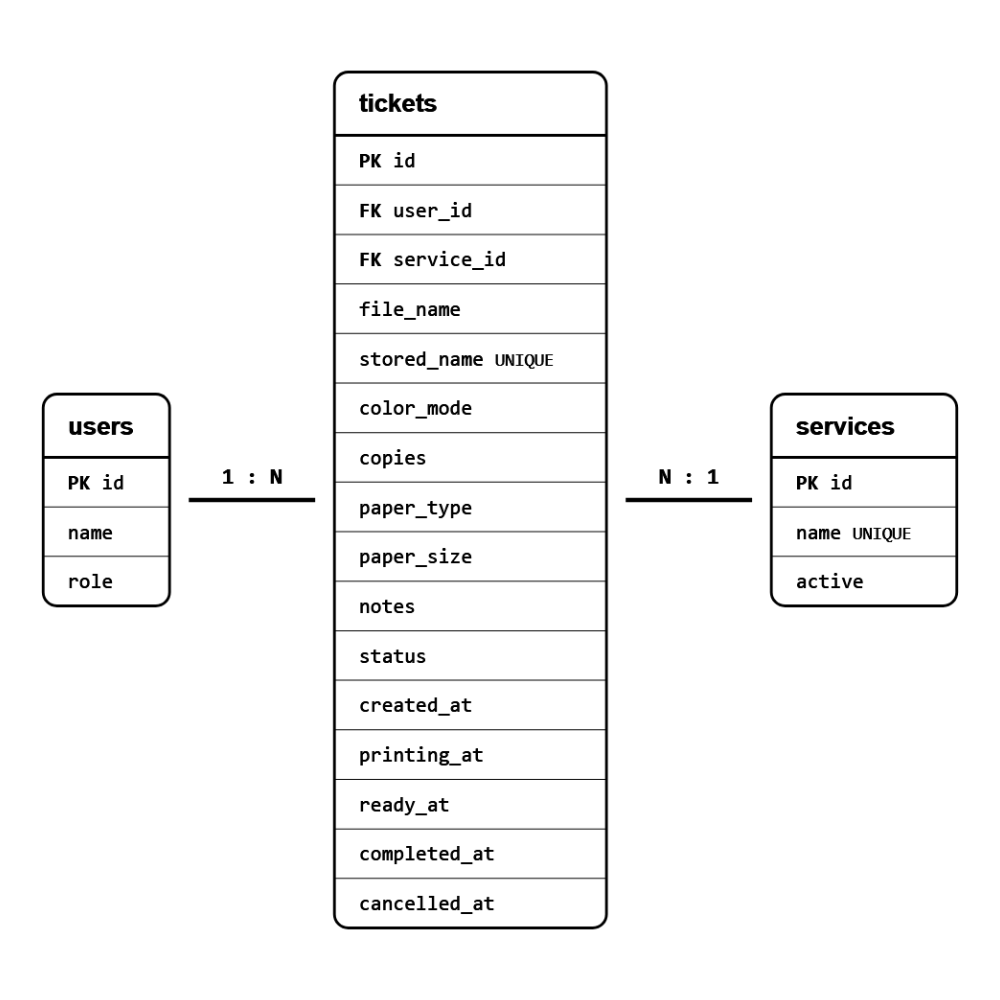
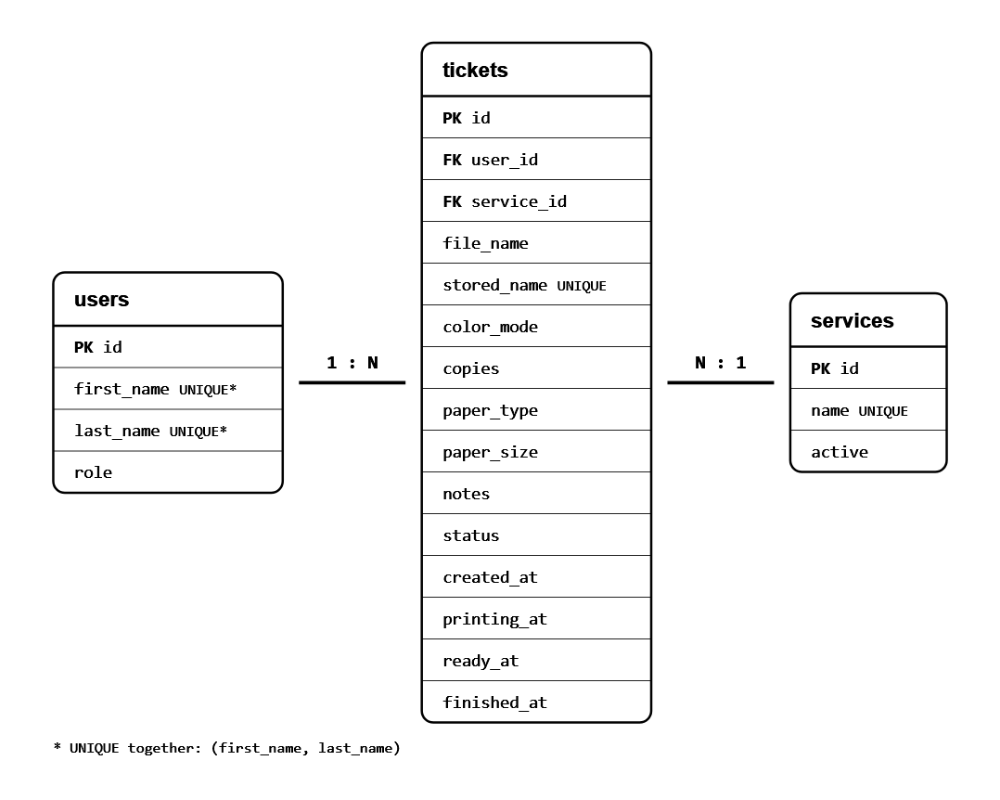
Add schema-review.md and update the schema.md

diff --git a/docs/week4/schema.md b/docs/week4/schema.md
@@ -4,20 +4,20 @@
  
 | ID | Requirement | Nouns | Table or column? |
 | --- | --- | --- | --- |
-| FR-01 | A requester can submit their **name**, one **PDF file** and its **print specifications** (**color mode**, **copies**, **paper type**, **paper size** and **instructions**). | requester, name, PDF file, print specifications, color mode, copies, paper type, paper size, instructions | `users`, `users.name`, `tickets.file_name`, `tickets.stored_name`, `tickets.color_mode`, `tickets.copies`, `tickets.paper_type`, `tickets.paper_size`, `tickets.notes` |
+| FR-01 | A requester can submit their **name**, one **PDF file** and its **print specifications** (**color mode**, **copies**, **paper type**, **paper size** and **instructions**). | requester, name, PDF file, print specifications, color mode, copies, paper type, paper size, instructions | `users`, `users.first_name`, `users.last_name`, `tickets.file_name`, `tickets.stored_name`, `tickets.color_mode`, `tickets.copies`, `tickets.paper_type`, `tickets.paper_size`, `tickets.notes` |
 | FR-02 | A requester can receive a **ticket number** after submitting their print request. | requester, ticket number, print request | `tickets.id` |
 | FR-03 | A requester can see how many **requests** are **ahead** of theirs and the current **status** of their print request. | requester, requests, ahead, status | `tickets.status`, `tickets.created_at`. The number ahead is computed (not stored) from older waiting requests for the same service |
-| FR-05 | A requester can **cancel** their request while it is still **waiting**. | requester, request, cancel, waiting | `tickets.status`, `tickets.cancelled_at` |
+| FR-05 | A requester can **cancel** their request while it is still **waiting**. | requester, request, cancel, waiting | `tickets.status`, `tickets.finished_at` |
 | FR-06 | A staff member can see all **waiting requests** in **queue order**, with each request's **print specifications**. | staff member, waiting requests, queue order, print specifications | (no staff login yet), `tickets.status`, `tickets.created_at`, and the print-specification columns in `tickets` |
 | FR-07 | A staff member can **print** the next request in the queue. | staff member, request, queue | `tickets.status`, `tickets.printing_at` |
 | FR-09 | A staff member can mark the request that is printing as **ready**. | staff member, request, ready | `tickets.status`, `tickets.ready_at` |
-| FR-10 | A staff member can mark a **ready** request as **done** when it is picked up. | staff member, request, ready, done, pickup | `tickets.status`, `tickets.completed_at` |
+| FR-10 | A staff member can mark a **ready** request as **done** when it is picked up. | staff member, request, ready, done, pickup | `tickets.status`, `tickets.finished_at` |
 | FR-11 ★ | A staff member can open a request's **PDF** to check it before printing. | staff member, request, PDF | `tickets.stored_name`, `tickets.file_name` |
 | FR-12 ★ | A requester's **PDF** is deleted from the server when their request is **done** or **cancelled**. | requester, PDF, request, done, cancelled | `tickets.stored_name` becomes `NULL` after the file is removed from disk. The ticket record remains |
-| FR-13 | A staff member can permanently **delete** a request. | staff member, request, delete | The row in `tickets` is deleted (hard delete). The application removes any remaining PDF file first |
+| FR-13 | A staff member can permanently **delete** a request. | staff member, request, delete | The row in `tickets` is deleted (hard delete). The application removes any remaining PDF file first. The user row is kept, because the same person may have other tickets |
 | FR-14 | A staff member can add, rename, **deactivate** and delete **services**. | staff member, services, name, active state | `services.id`, `services.name`, `services.active` |
 | FR-15 ★ | A requester can choose which **pages** of the PDF to print, or print all pages. *(Later)* | requester, pages, PDF | Not in this schema. It would be `tickets.page_range` in a later task |
-| FR-16 ★ | A requester can choose different print specifications for each **page**. *(Won't this semester)* | requester, print specifications, page | Not in this schema. It would be a future `ticket_page_specs` table related to `tickets` |
+| FR-16 ★ | A requester can choose different print specifications for each **page**. *(Won't this semester)* | requester, print specifications, page | Not in this schema. It will be added later (plan only) |
 | FR-17 ★ | A staff member can print only **one request** at a time on each **printer**. | staff member, request, printer | A partial UNIQUE index on `tickets.service_id` where `status = 'printing'`. There is one printer for one service, so one printing ticket per service is the same as one per printer |
 | FR-18 ★ | A staff member can mark printing as **unavailable** with a **reason**, and a requester sees the notice and cannot submit until printing is available again. *(Later)* | staff member, printing, reason, requester | Not in this schema. It would use `services.active` and a new reason column |
 | FR-19 ★ | A requester can print up to **20 pages per week**, and further requests are refused once that limit is reached. *(Later)* | requester, pages, week, requests | Not in this schema. It needs page counts on `tickets` and a reliable way to identify the requester |
@@ -30,16 +30,18 @@ The schema has three related tables. `users` stores the people who submit reques
  
 | Table | Paprintco columns |
 | --- | --- |
-| `users` | `id`, `name`, `role` |
+| `users` | `id`, `first_name`, `last_name`, `role` |
 | `services` | `id`, `name`, `active` |
-| `tickets` | `id`, `user_id`, `service_id`, `file_name`, `stored_name`, `color_mode`, `copies`, `paper_type`, `paper_size`, `notes`, `status`, `created_at`, `printing_at`, `ready_at`, `completed_at`, `cancelled_at` |
+| `tickets` | `id`, `user_id`, `service_id`, `file_name`, `stored_name`, `color_mode`, `copies`, `paper_type`, `paper_size`, `notes`, `status`, `created_at`, `printing_at`, `ready_at`, `finished_at` |
  
 ## 2c. Choose types and constraints on purpose
  
 | Table | Column | PostgreSQL type | Constraint | Why |
 | --- | --- | --- | --- | --- |
 | `users` | `id` | `integer`, generated | `PRIMARY KEY` | Generated by the database and never reused |
-| `users` | `name` | `varchar(60)` | `NOT NULL`, `CHECK (length(trim(name)) > 0)` | A person must have a non-empty name, and a name of only spaces is rejected. The limit matches the form |
+| `users` | `first_name` | `varchar(60)` | `NOT NULL`, `CHECK (length(trim(first_name)) > 0)` | A person must have a first name, and a name of only spaces is rejected |
+| `users` | `last_name` | `varchar(60)` | `NOT NULL`, `CHECK (length(trim(last_name)) > 0)` | A person must have a last name, and a name of only spaces is rejected |
+| `users` | `(first_name, last_name)` | | `UNIQUE` | The same person is saved only once. Neither column is unique on its own, because many people share a first name or a last name, but the pair together is |
 | `users` | `role` | `varchar(20)` | `NOT NULL`, `DEFAULT 'requester'`, `CHECK (role IN ('requester', 'staff'))` | Limits the role to the two kinds of person in the personas |
 | `services` | `id` | `integer`, generated | `PRIMARY KEY` | Generated by the database |
 | `services` | `name` | `varchar(100)` | `NOT NULL`, `UNIQUE`, `CHECK (length(trim(name)) > 0)` | Each service has a non-empty name, and no service appears twice |
@@ -53,39 +55,39 @@ The schema has three related tables. `users` stores the people who submit reques
 | `tickets` | `copies` | `integer` | `NOT NULL`, `DEFAULT 1`, `CHECK (copies BETWEEN 1 AND 100)` | Rejects zero, negative and above-limit copy counts. The form accepts 1 to 100 |
 | `tickets` | `paper_type` | `varchar(50)` | `NOT NULL`, `CHECK (paper_type IN ('Bond Paper', 'Photo Paper', 'Sticker Paper', 'Cardstock'))` | One spelling for each paper type. A new type will be added by a new migration |
 | `tickets` | `paper_size` | `varchar(50)` | `NOT NULL`, `CHECK (paper_size IN ('Short', 'A4', 'Long'))` | One spelling for each paper size. A new size will be added by a new migration |
-| `tickets` | `notes` | `text` | `NULL` allowed, `CHECK (notes IS NULL OR length(notes) <= 300)` | The optional additional instructions, with the same 300-character limit as the form |
+| `tickets` | `notes` | `text` | `NULL` allowed, `CHECK (notes IS NULL OR length(notes) <= 300)` | The optional additional instructions. Flask checks the 300-character limit on the form, but a request that skips the form could send more, so the database checks it too |
 | `tickets` | `status` | `varchar(20)` | `NOT NULL`, `DEFAULT 'waiting'`, `CHECK (status IN ('waiting', 'printing', 'ready', 'done', 'cancelled'))` | Only these five statuses used by the application are allowed |
 | `tickets` | `created_at` | `timestamptz` | `NOT NULL`, `DEFAULT now()` | Set by the database when the request joins the queue. The queue order comes from this column |
 | `tickets` | `printing_at` | `timestamptz` | `NULL` allowed, `CHECK (printing_at IS NULL OR printing_at >= created_at)` | Empty until staff start printing, and never before the ticket was created |
-| `tickets` | `ready_at` | `timestamptz` | `NULL` allowed, `CHECK (ready_at IS NULL OR ready_at >= created_at)` | Empty until the request is marked ready for pickup |
-| `tickets` | `completed_at` | `timestamptz` | `NULL` allowed, `CHECK (completed_at IS NULL OR completed_at >= created_at)` | Empty until the printout is picked up |
-| `tickets` | `cancelled_at` | `timestamptz` | `NULL` allowed, `CHECK (cancelled_at IS NULL OR cancelled_at >= created_at)` | Empty unless a waiting request was cancelled |
-
+| `tickets` | `ready_at` | `timestamptz` | `NULL` allowed, `CHECK (ready_at IS NULL OR ready_at >= created_at)` | Empty until staff mark the request ready for pickup, which happens before it is done |
+| `tickets` | `finished_at` | `timestamptz` | `NULL` allowed, `CHECK (finished_at IS NULL OR finished_at >= created_at)` | Empty until the request is done or cancelled, and never before the ticket was created. One column serves both endings, because a ticket ends only one way, and the status says which |
+ 
 **Note:**
+- **Users.** Each person is saved once. When a request is submitted, Flask looks for a user with the same first and last name and reuses that row, or creates a new one. Flask fixes the capitalization before saving, so "maria cruz" and "Maria Cruz" are the same person.
 - **Staff.** There is no staff login yet, so no staff `users` rows are created.
 - **Ticket number.** It is `tickets.id`, so the database makes sure no two tickets share a number.
 - **Position in line.** It is not stored. It is the number of waiting tickets of the same service with an earlier `created_at`.
 - **Deleting the PDF.** When a request is done or cancelled, the file can be deleted from the server and `stored_name` becomes `NULL` but the `file_name` remains unchanged so the ticket stays as history.
+- **Hard delete.** When staff permanently delete a request, the application deletes the PDF first and then the ticket. The user row is kept, because the same person may have other tickets.
 - **One printer.** Only one request can be printing at a time for each printer (one service). If Paprintco later supports more printers, the one-printing index changes to use a printer reference (FR-20).
 ```sql
 CREATE UNIQUE INDEX uq_tickets_one_printing
 ON tickets (service_id)
 WHERE status = 'printing';
 ```
-
+ 
 ## 2d. Draw the ERD
  
 ![ERD](erd.png)
  
 1. **One user has many tickets.** Each ticket belongs to exactly one user through `tickets.user_id`. (1:N)
 2. **One service has many tickets.** Each ticket belongs to exactly one service through `tickets.service_id`. (1:N)
-
 **What happens when a parent row is deleted?** 
 1. `tickets.user_id` > `users.id` is **RESTRICTED**, because the tickets are the history of who asked for what, so a user with tickets cannot be deleted.
 2. `tickets.service_id` > `services.id` is **RESTRICTED**, because old tickets must keep the service they were submitted for, so a service with tickets cannot be deleted. Staff switch it off with `active` instead. A service with no tickets can be deleted.
  
 ## 2e. Check that it is normalized
-
+ 
 1. **One value per cell (1NF):** No. No column holds a list. A ticket has one color mode, one number of copies, one status and one time for each event, and the additional instructions are one piece of text.
 2. **Depends on the whole key (2NF):** Not applicable, because there is no join table. Every table has a single-column primary key, so each column depends on the whole key.
-3. **No hidden copies (3NF):** No. I would never have to update the same fact in more than one row. A service's name and active state are stored once, in `services`. A user's name and role are stored once, in `users`. A ticket stores only `user_id` and `service_id`, not copies of them. Print specifications belong in `tickets` because they describe that one request. The position in line and the number of requests ahead are computed from `status`, `created_at` and `id`, so they are never stored and never out of date.
+3. **No hidden copies (3NF):** No. I would never have to update the same fact in more than one row. A service's name and active state are stored once, in `services`. A user's first name, last name and role are stored once, in `users`. A ticket stores only `user_id` and `service_id`, not copies of them. Print specifications belong in `tickets` because they describe that one request. The position in line and the number of requests ahead are computed from `status`, `created_at` and `id`, so they are never stored and never out of date.

diff --git a/docs/week4/schema-review.md b/docs/week4/schema-review.md
@@ -1,0 +1,6 @@
+# Schema self-review
+ 
+1. **Works well:** Every requirement that stores data has a table or column in schema.md (2a): FR-01 to FR-03, FR-05 to FR-07, FR-09 to FR-14 and FR-17 are covered, and FR-15, FR-16 and FR-18 to FR-21 are marked Later. The requester tasks (submit, see my place, cancel) and the staff tasks (print next, mark ready, mark done, open the PDF) all have the data they need. **Problem (question 1):** `tickets` had five timestamps (`created_at`, `printing_at`, `ready_at`, `completed_at`, `cancelled_at`), but no requirement mentions a time. FR-05, FR-07, FR-09 and FR-10 only say that the status changes, and only `created_at` is needed, for the queue order. Also, `completed_at` and `cancelled_at` are two columns for one fact, the time a ticket ended, and a ticket ends only one way, so one of them was always empty. **Change:** I merged `completed_at` and `cancelled_at` into one `finished_at`, and the status says whether the ticket was done or cancelled. I kept `printing_at`, `ready_at` and `finished_at` even though no requirement asks for them, because each is a fact the database can record when the status changes, and they cannot be rebuilt later. Each has a check so it cannot be before `created_at`. I wrote this reason in schema.md (2c) and updated 2a, 2b and the ERD.
+2. **Works well:** A ticket stores only `user_id`, so the person's name is kept in `users` and not copied into every ticket. **Problem (question 2):** One `name` column cannot tell a first name from a last name, so the same person could be saved twice with the name typed in a different order. **Change:** I split `users.name` into `first_name` and `last_name`, with a `UNIQUE (first_name, last_name)` constraint in schema.md (2c). Neither column is unique alone, because many people share a first name or a last name, but the pair is. In this project, the app assumes that no two people share the same first and last name together in this scope, so the pair identifies one person. Flask will find the user by the pair and reuse that row, and fix the capitalization before saving.
+3. **Works well:** Each column has a type that fits its data, with `timestamptz` for times and `text` for the free-form notes. **Problem (question 6):** A `text` column has no length limit. Flask limits the notes to 300 characters on the form, but a request that skips the form could send much more. **Change:** I kept `CHECK (notes IS NULL OR length(notes) <= 300)` on `tickets.notes` and wrote the reason in schema.md (2c).
+4. **Works well:** Both foreign keys use `RESTRICT`, so a service or user with tickets can never be deleted by accident. **Problem (question 5):** When staff permanently delete a request (FR-13), the ticket row goes but the PDF may still be on disk. **Change:** I wrote in schema.md (2a and 2c notes) that the application deletes the PDF first and then the ticket. The user row is kept, because the same person may have other tickets.
